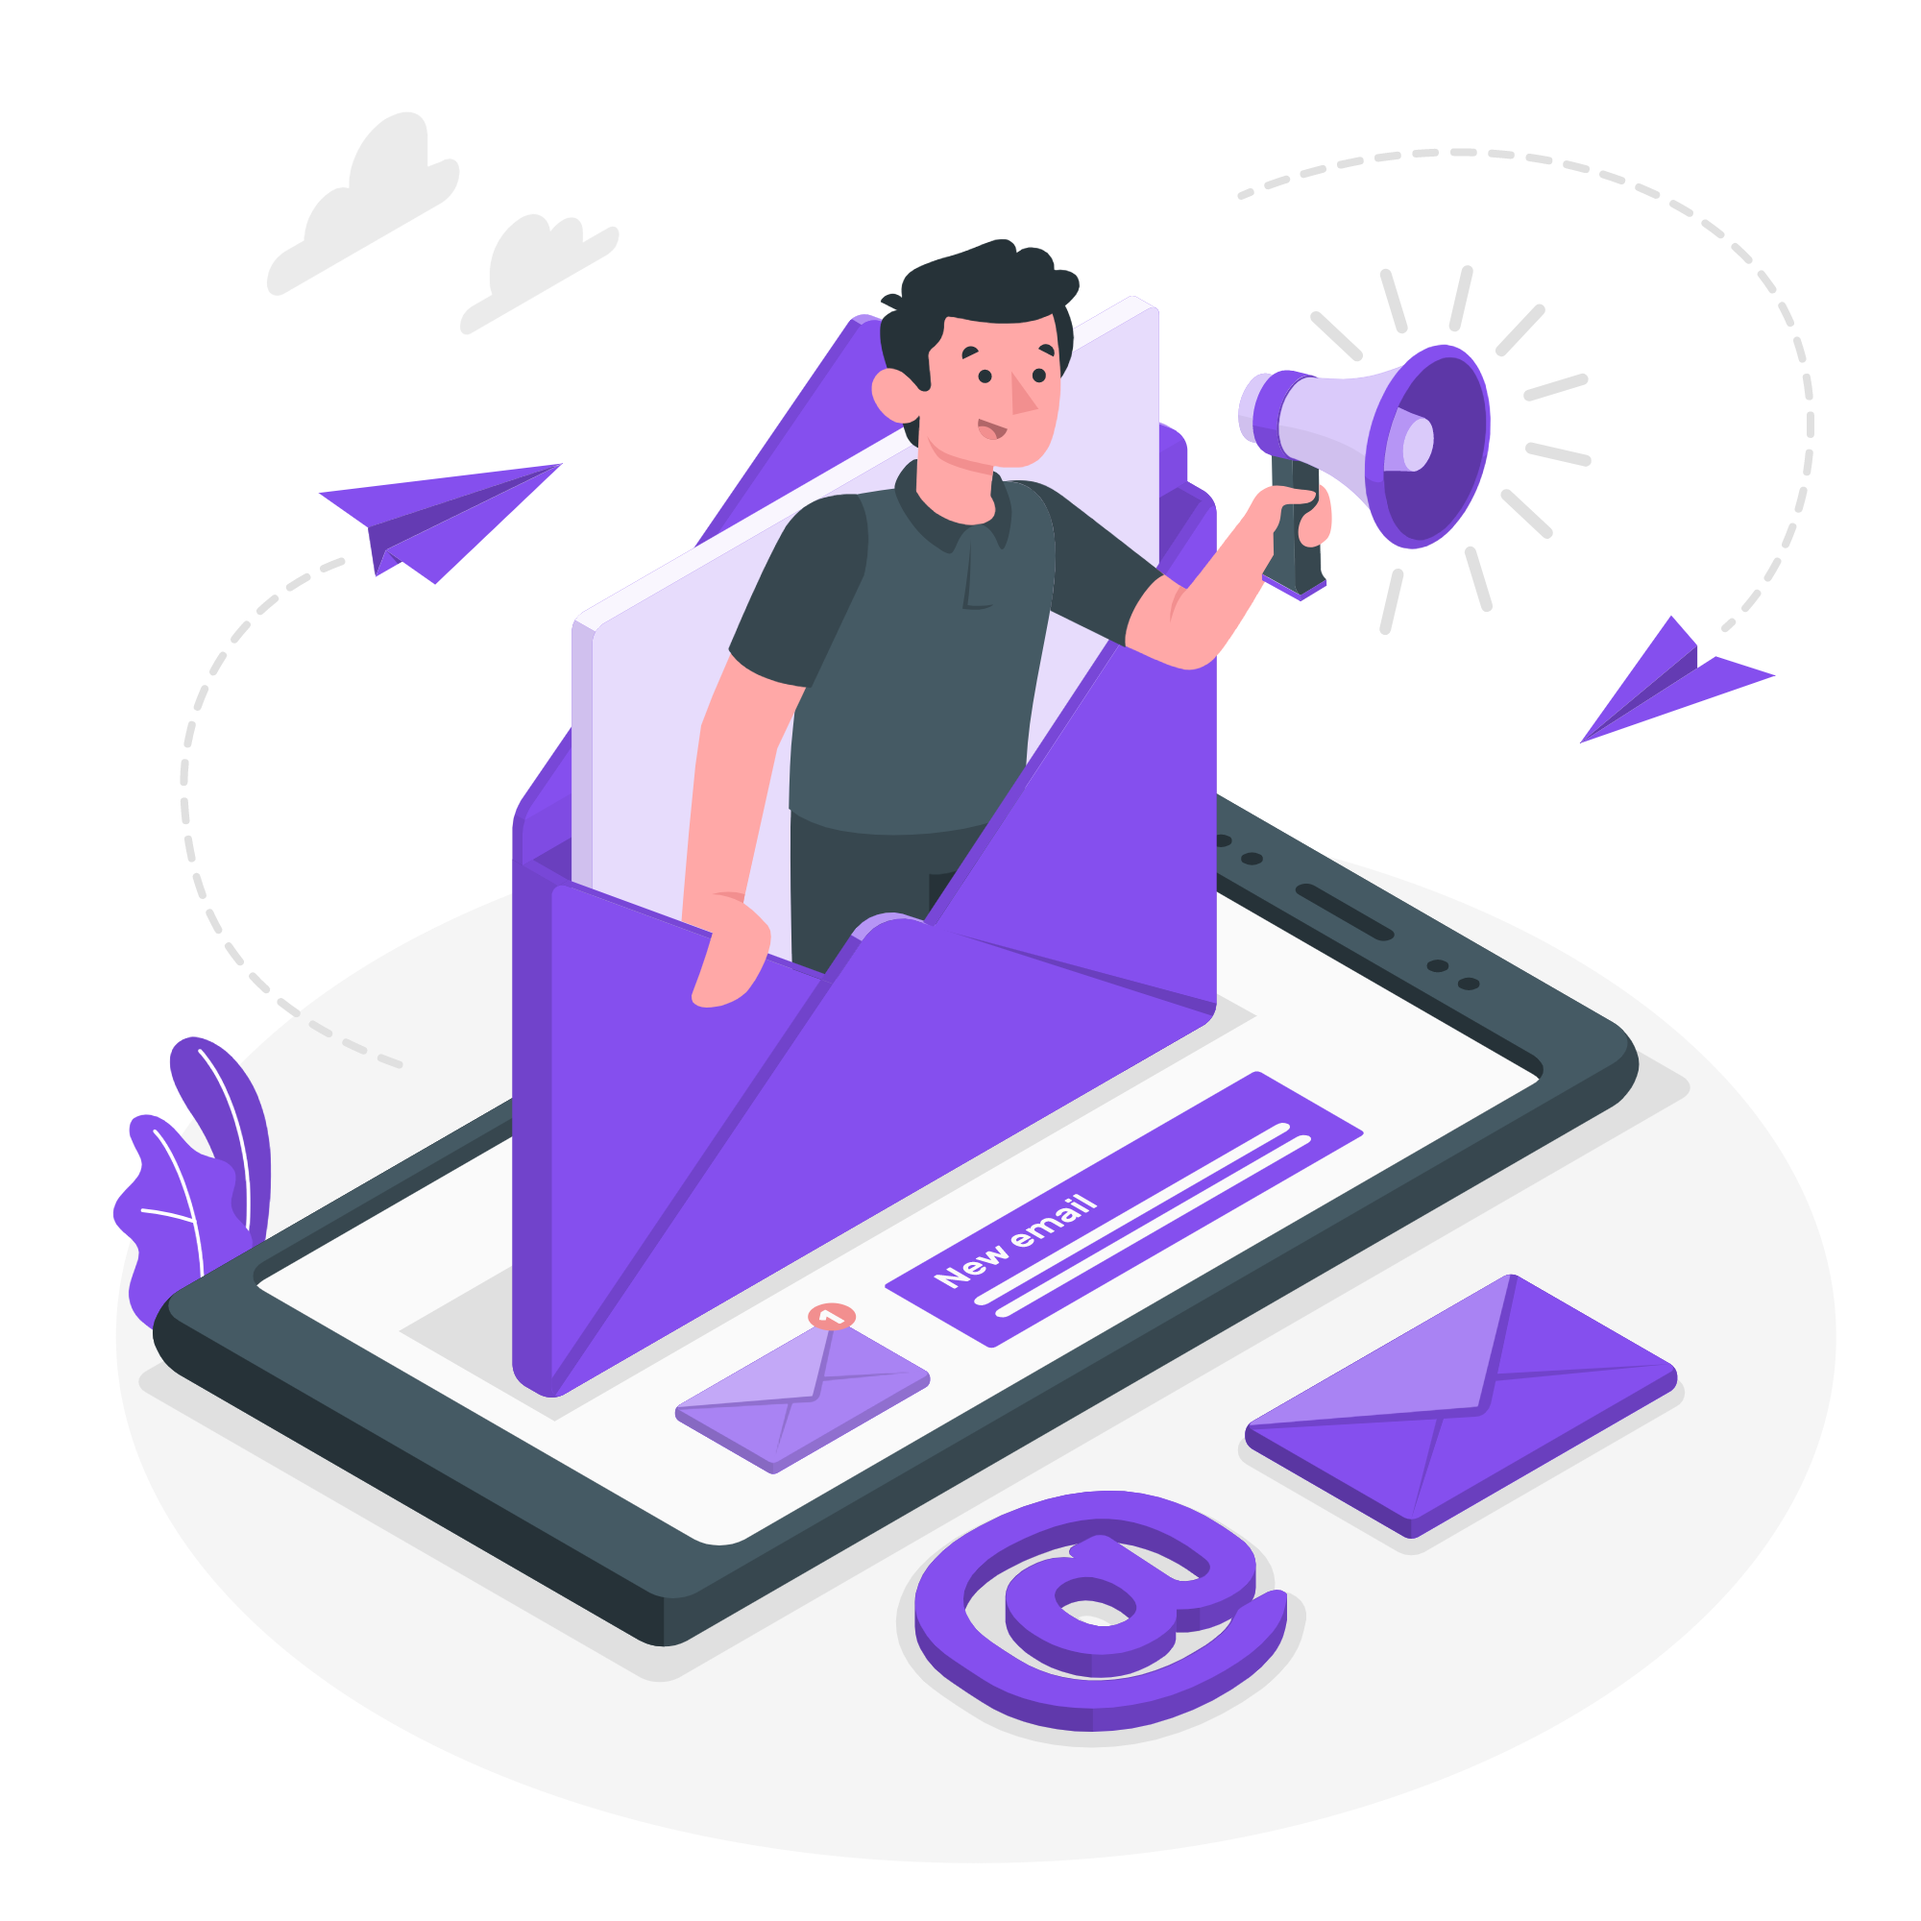
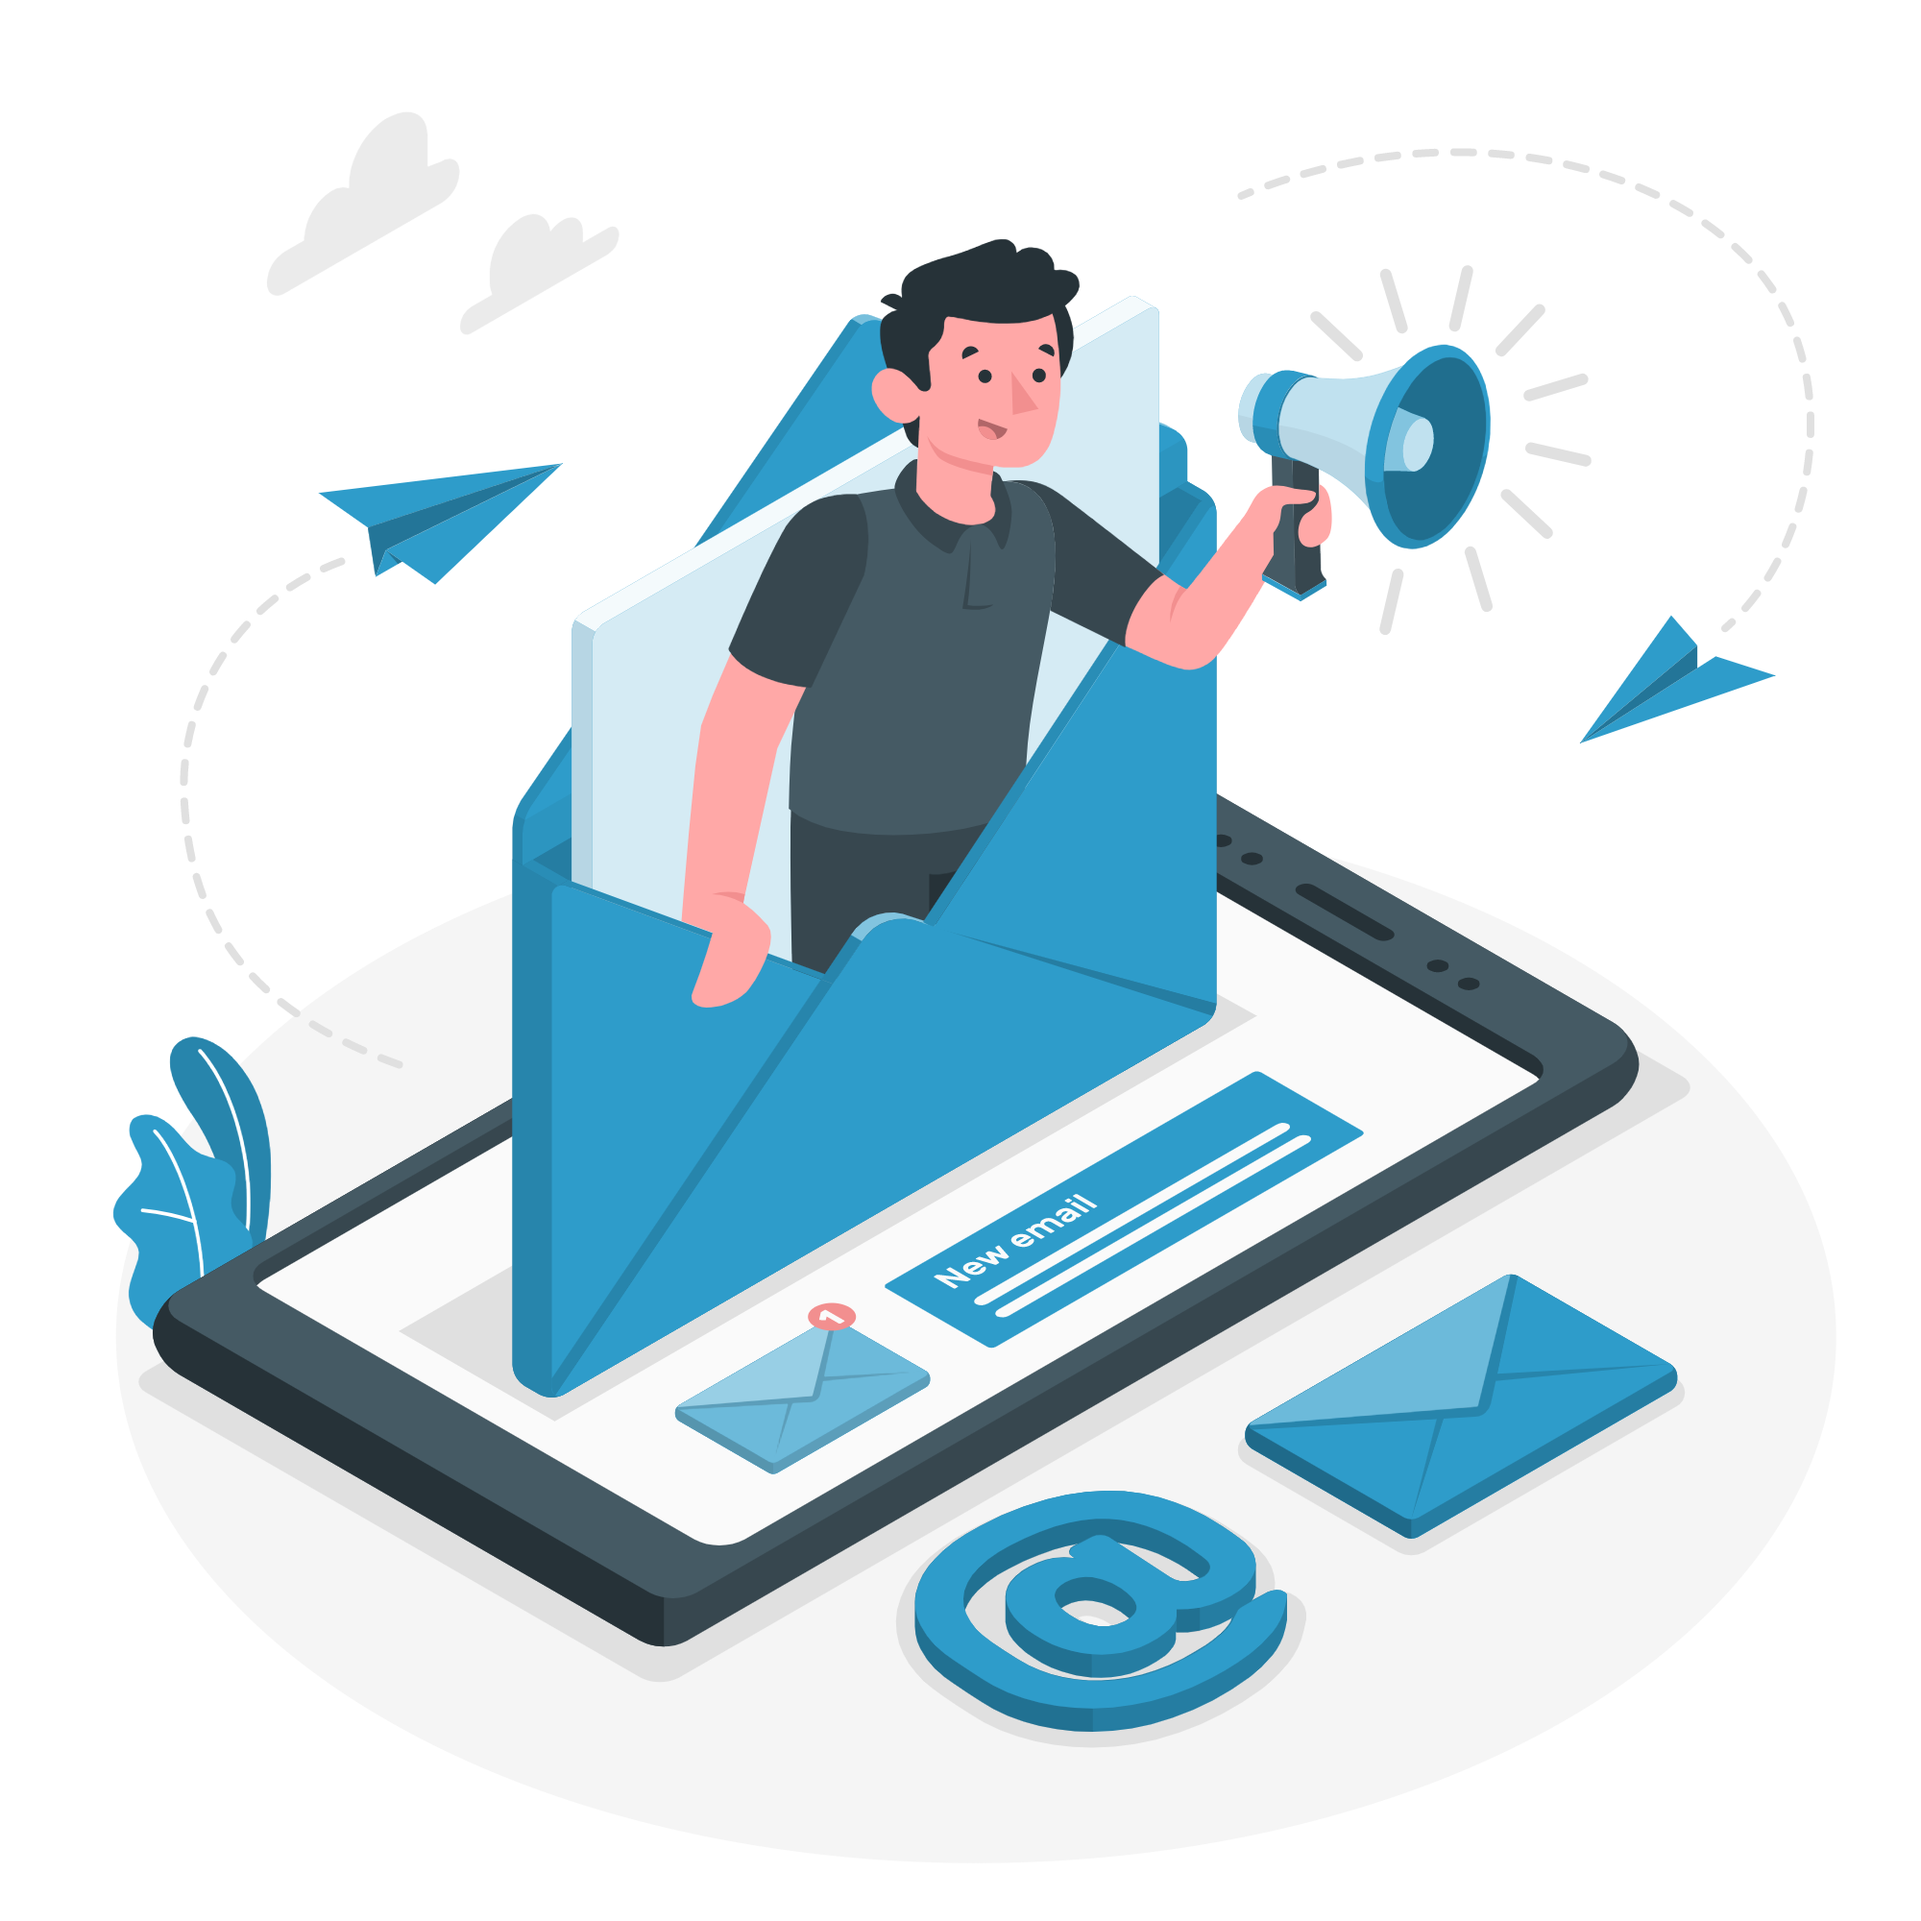
Massive Color change

diff --git a/css/style.css b/css/style.css
@@ -36,7 +36,7 @@ html {
   text-decoration: none;
 }
 #back2Top:hover {
-  background-color: #ddf;
+  background-color: #2E9CCA;
   color: #000;
 }
 
@@ -244,11 +244,18 @@ html {
   padding: 4rem 0;
 }
 
-.site-main .project-area .button-group button {
+.site-main .project-area .button-group  button {
   background: transparent;
   border: none;
   font: normal 500 16px/130px var(--roboto);
   text-transform: uppercase;
+}
+
+.site-main .project-area .button-group button:hover {
+  background: var(--gradient-color);
+  -webkit-background-clip: text;
+  -webkit-text-fill-color: transparent;
+  background-clip: text;
 }
 
 .site-main .project-area .button-group button + button {

diff --git a/css/partials/_variables.css b/css/partials/_variables.css
@@ -9,12 +9,15 @@ body {
 /* CSS Variables */
 
 :root {
-  --primary-color: #4458dc;
-  --primary-color2: #854fee;
+  /* --primary-color: #4458dc;
+  --primary-color2: #854fee; */
+  --primary-color: #2E9CCA;
+  --primary-color2: #29648A;
   --title-color: #141313;
   --text-color: #777777;
   --border-color: #201f1f17;
-  --gradient-color: linear-gradient(90deg, #4458dc 0%, #854fee 100%);
+  /* --gradient-color: linear-gradient(90deg, #4458dc 0%, #854fee 100%); */
+  --gradient-color: linear-gradient(90deg, #29648A 0%, #2E9CCA 100%);
   --shadow-color: 0px 10px 30px rgba(118, 85, 225, 0.3);
   --box-shadow: 0px 10px 30px rgba(57, 56, 61, 0.205);
 

diff --git a/css/main.css b/css/main.css
@@ -441,7 +441,7 @@ textarea.input100 {
   top: 0;
   height: 490%;
   width: 140%;
-  background: #854fee;
+  background: var(--gradient-color);
   -webkit-transition: all 0.5s ease-in-out;
   transition: all 0.5s ease-in-out;
   -webkit-transform: translateX(-98%) translateY(-25%) rotate(45deg);
